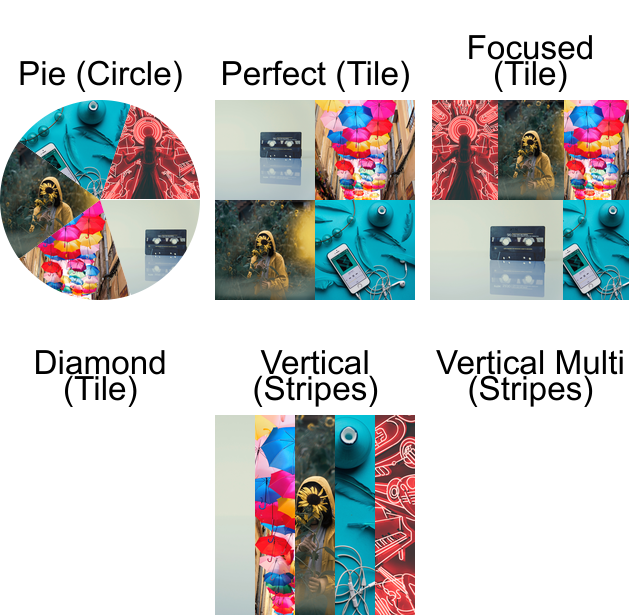
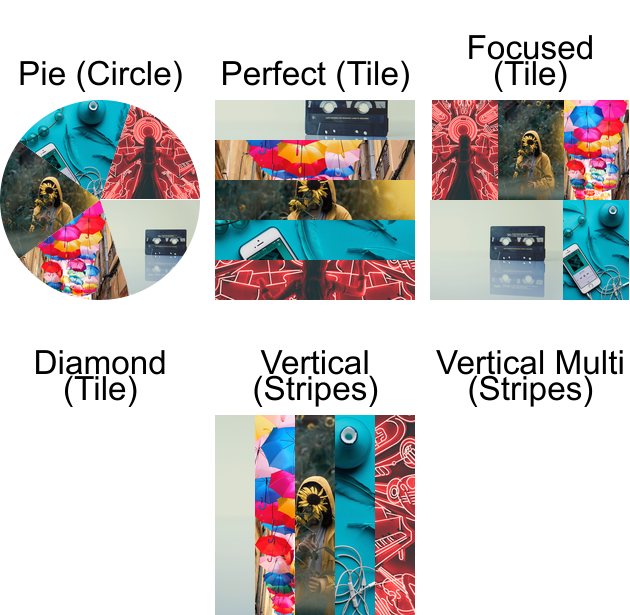
update tiles-perfect to work for non-square numbers

Changed region(s): [[0.3317, 0.1545, 0.6635, 0.4943]]

diff --git a/composers.go b/composers.go
@@ -72,21 +72,14 @@ func CirclesPie(dc *gg.Context, images ...image.Image) error {
 func TilesPerfect(dc *gg.Context, images ...image.Image) error {
 	w := dc.Width()
 	h := dc.Height()
-	n := int(math.Sqrt(float64(len(images))))
 
-	imgW := w / n
-	imgH := h / n
+	nH, nV := geom.FindBalancedFactors(len(images))
+	imgW := w / nH
+	imgH := h / nV
 
-	// TODO create m * n tiles
-
-	maxI := n * n
 	for i, img := range images {
-		if i > maxI {
-			break
-		}
-
-		column := i % n
-		row := i / n
+		column := i % nH
+		row := i / nH
 		img = imaging.Fill(img, imgW, imgH, imaging.Center, imaging.Lanczos)
 		dc.DrawImage(img, column*imgW, row*imgH)
 	}

diff --git a/composers_test.go b/composers_test.go
@@ -189,6 +189,17 @@ var composerTests = []*ComposerTest{
 		},
 	},
 	{
+		ComposerID: "tiles-perfect",
+		InputImageNames: []string{
+			"s-erixon-753182.jpg",
+			"j-han-456323.jpg",
+			"m-spiske-78531.jpg",
+			"b-martinez-744134.jpg",
+			"s-imbrock-487035.jpg",
+			"j-crop-764891.jpg",
+		},
+	},
+	{
 		ComposerID: "tiles-focused",
 		InputImageNames: []string{
 			"s-erixon-753182.jpg",
